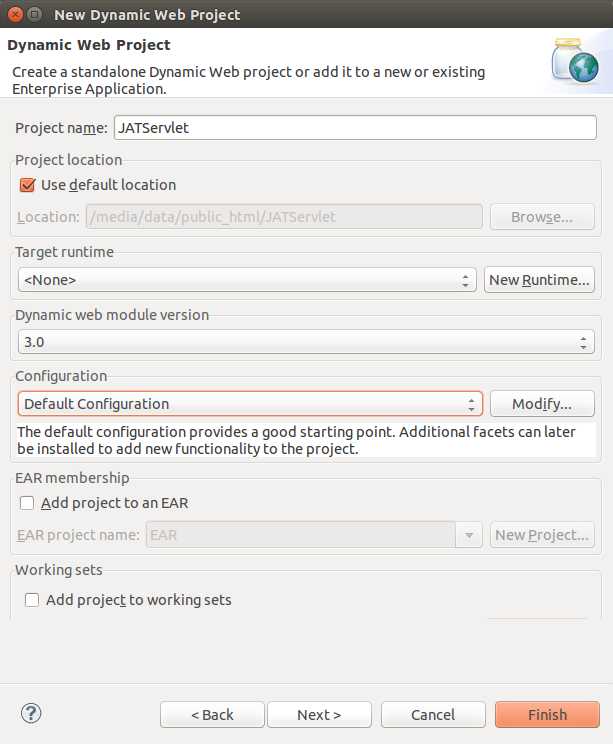
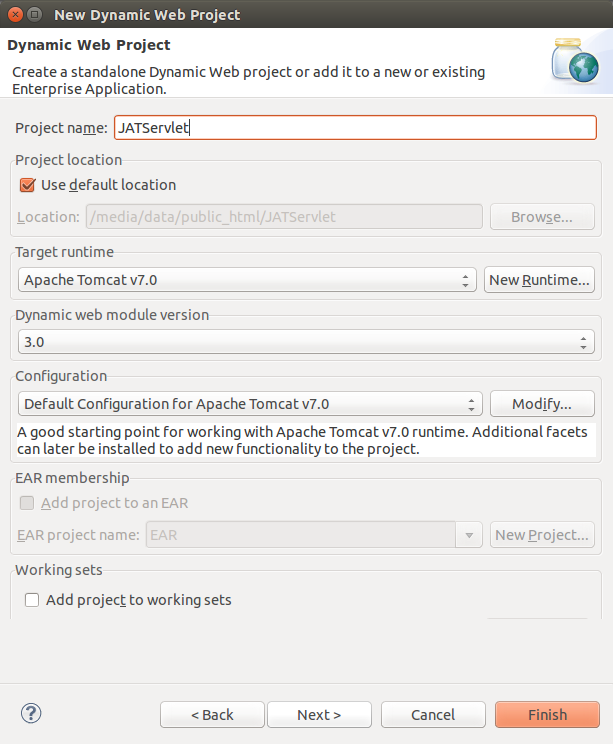
documentation

diff --git a/html/support/developer/EclipseGitJATServlet.html b/html/support/developer/EclipseGitJATServlet.html
@@ -1,0 +1,102 @@
+<!DOCTYPE html PUBLIC "-//W3C//DTD HTML 4.01 Transitional//EN" "http://www.w3.org/TR/html4/loose.dtd">
+<html>
+<head>
+<meta http-equiv="Content-Type" content="text/html; charset=UTF-8">
+<title>Insert title here</title>
+</head>
+<body>
+	<h2>Ubuntu 14.04</h2>
+
+	<h3>Set up Web Development Tools in Eclipse</h3>
+	In Eclipse, select "Install new software"
+
+	<p>
+		<img alt="" src="images/installNewSoftware.png" />
+	</p>
+
+	under "Web, XML, Java EE Development and OSGi Enterprise Development"
+	select:
+	<ul>
+		<li>Eclipse Java EE Developer Tools</li>
+		<li>Eclipse Java Web Developer Tools</li>
+		<li>Eclipse Web Developer Tools</li>
+		<li>JST Server Adapters</li>
+		<li>JST Server Adapters Extensions</li>
+	</ul>
+
+	<p>
+		<img alt="" src="images/EclipseEEdevelop.png" />
+	</p>
+
+	<h3>Set up Tomcat Server Target in Eclipse</h3>
+	Go to Window->Preferences->Server->Runtime Environment and click on Add
+	<p>
+		<img alt="" src="images/EclipseTomcat.png" />
+	</p>
+	Select Tomcat 7 and click Next
+	<p>
+		<img alt="" src="images/ServletRTETomcat.png" />
+	</p>
+	Point to the Tomcat installation directory and click on Finish
+	<p>
+		<img alt="" src="images/ServletRTETomcatFolder.png" />
+	</p>
+
+
+	<h3>Import the Code</h3>
+
+	In the Project Explorer, right-click and select import:
+
+	<p>
+		<img alt="" src="images/EGitImport.png" style="width: 500px" />
+	</p>
+
+	Select import from Git:
+
+	<p>
+		<img alt="" src="images/importFromGit.png" style="width: 500px" />
+	</p>
+	As source, select URI:
+	<p>
+		<img alt="" src="images/EGitURI.png" style="width: 500px" />
+	</p>
+	Enter the github repository URI
+	<p>https://github.com/atmelino/JATServlet.git</p>
+	<br> and your developer credentials.
+	<p>
+		<img alt="" src="images/EGitRepositoryServlet.png" style="width: 500px" />
+	</p>
+	Leave the branch selection on master and click on Next.
+	<p>
+		<img alt="" src="images/EGitMasterServlet.png" style="width: 500px" />
+	</p>
+	Enter the location of the local copy.
+	<p>
+		<img alt="" src="images/EGitLocalServlet.png" style="width: 500px" />
+	</p>
+	Now leave the selection on new project wizard and click on Finish.
+	<p>
+		<img alt="" src="images/EGitImportedServlet.png" style="width: 500px" />
+	</p>
+	make sure to create a "Dynamic Web Project"
+
+	<p>
+		<img alt="" src="images/EGitDynamicWP.png" style="width: 500px" />
+	</p>
+	Enter the name of the project and click on Finish.
+	The target runtime should be Tomcat 7.
+	<p>
+		<img alt="" src="images/EGitServletDWP.png" style="width: 500px" />
+	</p>
+
+	Refer to this page for more information:
+
+	<p>
+		<a href='http://www.vogella.com/tutorials/EclipseWTP/article.html'
+			target="_parent"> Java web development with Eclipse WTP -
+			Tutorial</a>
+	</p>
+
+
+</body>
+</html>

diff --git a/html/support/Developer.html b/html/support/Developer.html
@@ -11,19 +11,15 @@
 		<a href='developer/installEclipse.html'> Installing Eclipse</a>
 	</p>
 	<p>
-		<a href='developer/EclipseServlet.html'> configuring Eclipse to
-			develop servlets</a>
-	</p>
-	<p>
 		<a href='developer/installGit.html'> Installing Git for team
 			collaboration and version control</a>
 	</p>
 	<p>
-		<a href='developer/EclipseGit.html'> Downloading JAT through
+		<a href='developer/EclipseGitJATnet.html'> Downloading JATnet through
 			Eclipse and Git</a>
 	</p>
 	<p>
-		<a href='developer/EclipseGitServlet.html'> Downloading the JAT Servlet code through
+		<a href='developer/EclipseGitJATServlet.html'> Downloading JATServlet through
 			Eclipse and Git</a>
 	</p>
 	<p>
